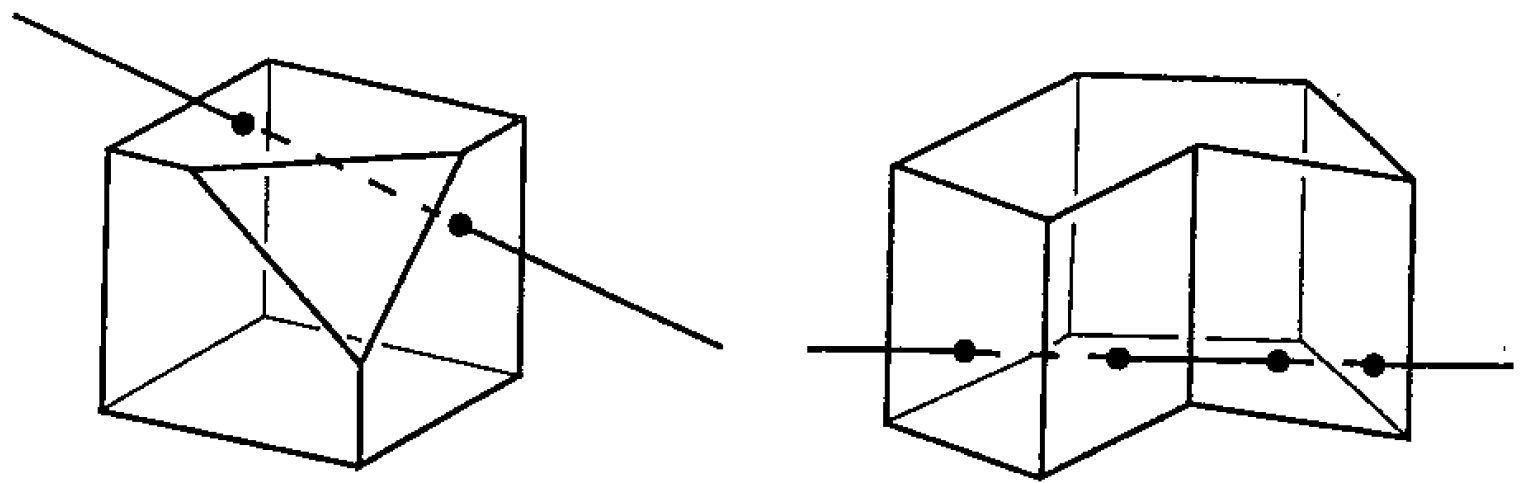
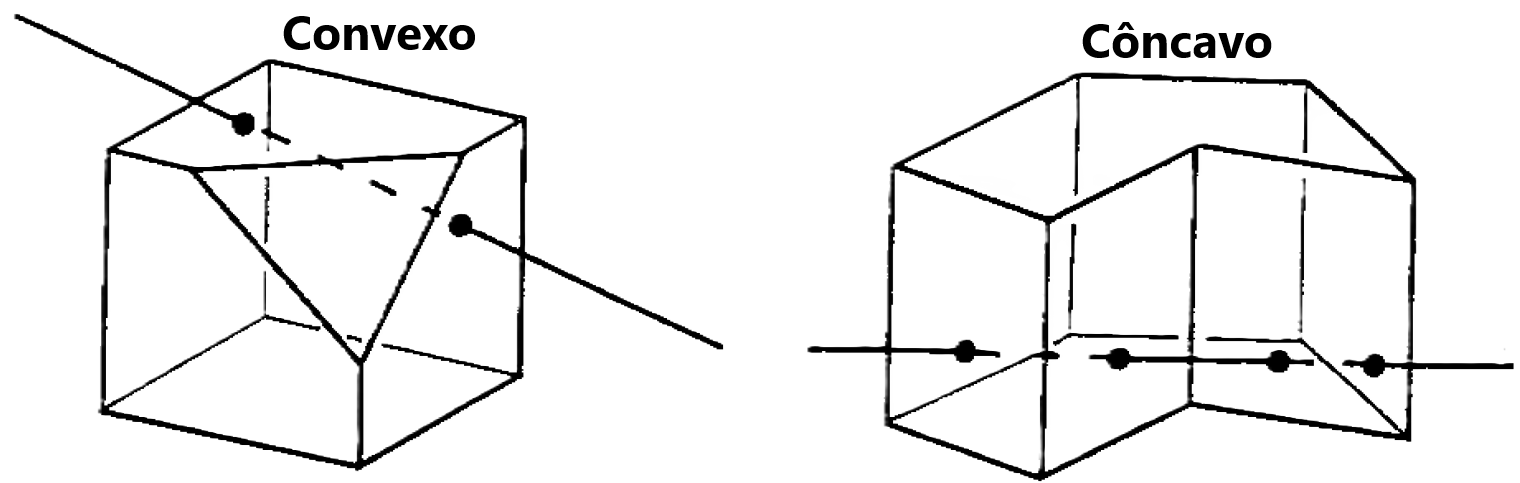
Poliedros Côncavos e convexos.

diff --git a/TCC Mamãe/TCC - Atualizado (1)/Fernanda.tex b/TCC Mamãe/TCC - Atualizado (1)/Fernanda.tex
@@ -530,7 +530,7 @@ Sua definição é dada por \citeonline{Elon_2022}, onde diz que poliedro (\auto
 \end{enumerate}
 
 \begin{CenteredFigure}
-    \caption{Poliedro} \label{fig:poliedro}
+    \caption{Poliedros Convexo e Côncavo} \label{fig:poliedro}
     \includegraphics[width=0.4\textwidth]{Imagens/Novas/Poliedros}
     \legend{Fonte: \citeonline{Elon_2022}}
 \end{CenteredFigure}
